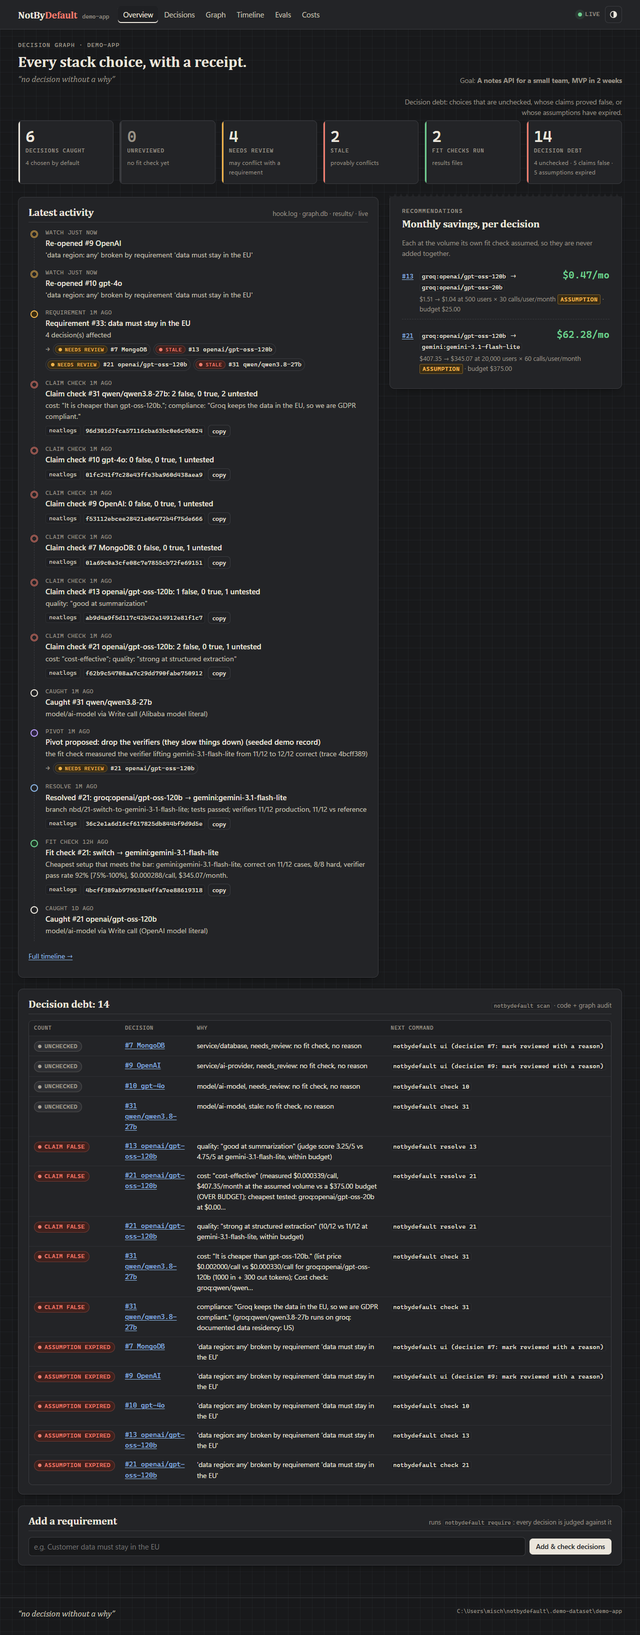
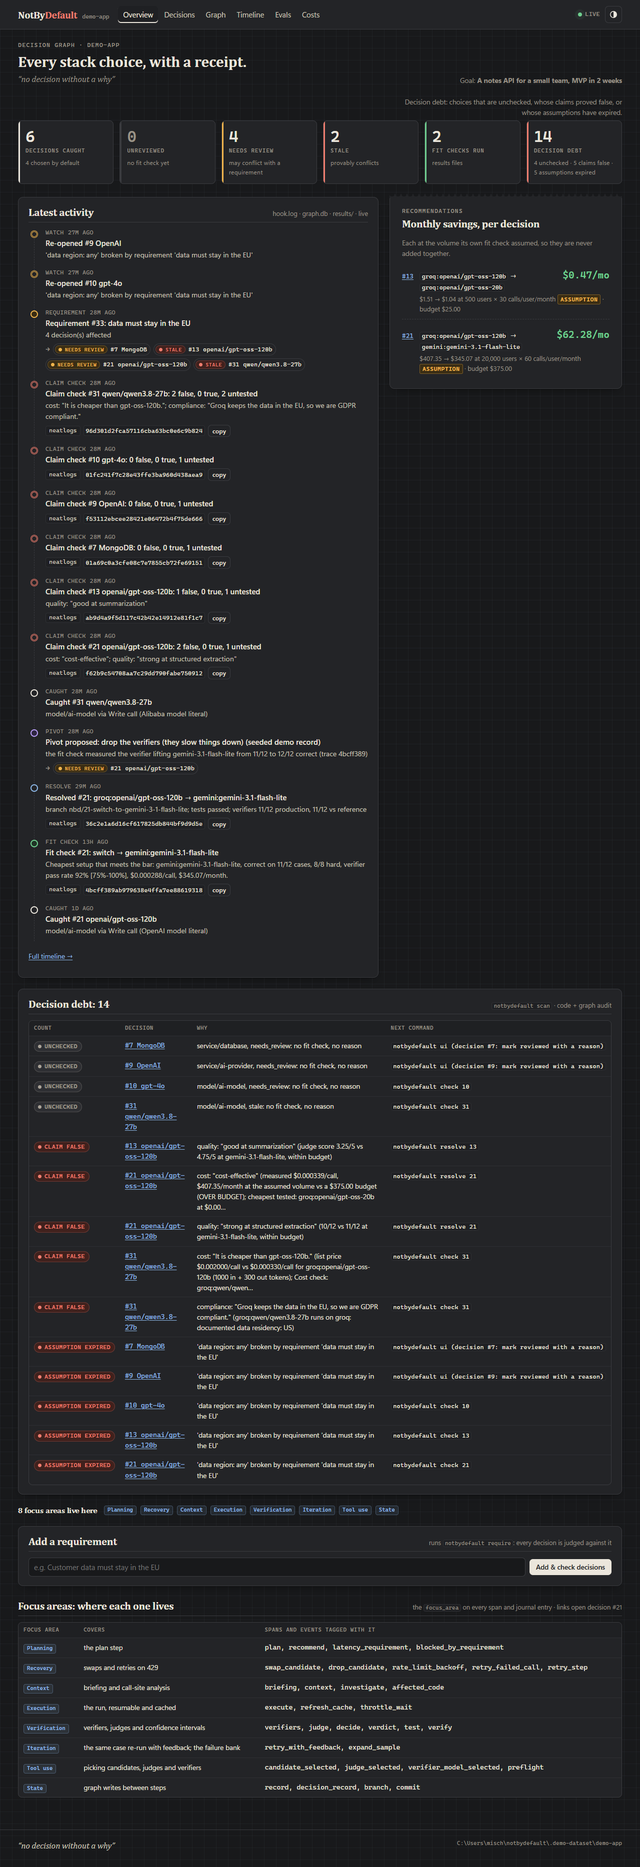
focus areas: approved retags, badges on the receipt, fit check and resolve PR
Retags (each approved one by one):
- candidate_selected, judge_selected, verifier_model_selected: planning -> tool_use
- retry_with_feedback: recovery -> iteration, and it is no longer in RECOVERY_EVENTS,
  so the report's "Agent journal: N ..." count is recoveries only
- refresh_cache (hook): planning -> execution
- expand_sample (failure-bank inputs re-run first): context -> iteration
- each candidate's first model call (evaluate.py): tool_use -> execution
preflight and the preflight call role stay tool_use.

Display only, from data already saved:
- fit-check evidence: a step strip, one focus-area badge per step
- receipt: an "Agent journal" section, one line per entry ("rate_limit_backoff -> Recovery")
- overview: an "8 focus areas live here" chip row, each chip linking to the receipt section
  where that area shows most, and a mapping table (area, what it covers, its spans)
- resolve PR: a "Focus areas touched by this change" line under the title, built from the
  step spans (a retried step adds its retry_step recovery)
Journals saved before this change keep their old tags. tracing.RETAGGED maps them to today's
tag for display, and the badge's tooltip shows the recorded tag.

Tests: the two that pinned retry_with_feedback as recovery now expect iteration. New tests check
that every span in the mapping table is emitted with its area, that saved journals show today's
area, that every chip links to an existing section and that the PR has the focus line.
[…]

diff --git a/notbydefault/ui/templates/_decision_body.html b/notbydefault/ui/templates/_decision_body.html
@@ -1,6 +1,6 @@
 {% include "_claims.html" %}
 {% from "_macros.html" import pill, trace, file %}
-<div class="section-title"><h2>Call site &amp; affected code</h2><span class="src">Entire Graph · {{ v.affected_source or "touched files" }}{% if data.affected_at %} · {{ data.affected_at|when }}{% endif %}</span></div>
+<div class="section-title" id="affected"><h2>Call site &amp; affected code</h2><span class="src">Entire Graph · {{ v.affected_source or "touched files" }}{% if data.affected_at %} · {{ data.affected_at|when }}{% endif %}</span></div>
 <div class="grid-2">
   <div class="table-wrap">
     {% if v.affected %}
@@ -26,11 +26,14 @@
   </div>
 </div>
 
-<div class="section-title"><h2>Fit-check evidence</h2>
+<div class="section-title" id="fit-evidence"><h2>Fit-check evidence</h2>
   <span class="src">{% if v.fit %}{{ file(v.fit.results) }} · run {{ v.fit.run_at|when }}{% else %}no fit check{% endif %}</span></div>
 {% if v.fit %}
 {% set f = v.fit %}
 <p class="small fit-line">{{ FIT_LINE }}</p>
+{% if f.steps %}<ol class="step-strip" id="fit-steps" aria-label="Fit-check steps and their focus areas">
+  {% for s in f.steps %}<li><span class="mono">{{ s.name }}{% if s.n > 1 %} ×{{ s.n }}{% endif %}</span> <span class="focus"{% if s.recorded != s.area %} title="recorded as {{ s.recorded }} before the retag"{% endif %}>{{ s.label }}</span></li>{% endfor %}
+</ol>{% endif %}
 <div class="table-wrap"><table class="fit">
   <thead><tr>{% for h in f.table.headers %}<th{% if not loop.first %} class="num"{% endif %}>{{ h }}</th>{% endfor %}</tr></thead>
   <tbody>
@@ -74,6 +77,13 @@
     {% if not any_fail.v %}<p class="muted small">No per-case failures recorded{{ " (no reference answers)" if not f.table.refs }}.</p>{% endif %}
   </div>
 </div>
+{% if f.journal %}
+<div class="section-title" id="agent-journal"><h2>Agent journal</h2><span class="src">{{ file(f.results) }} · {{ f.journal|length }} entries, each with its focus area</span></div>
+<ul class="journal">
+  {% for e in f.journal %}<li{% if e.anchor %} id="journal-{{ e.area }}"{% endif %}><code>{{ e.name }}</code> → <span class="focus"{% if e.recorded != e.area %} title="recorded as {{ e.recorded }} before the retag"{% endif %}>{{ e.label }}</span>{% if e.reason %} <span class="why">{{ e.reason|truncate(120, True, "…") }}</span>{% endif %}</li>
+  {% endfor %}
+</ul>
+{% endif %}
 {% else %}
 <div class="empty"><b>Not fit-tested</b>{% if data.kind == "model" %}Run <code>notbydefault check {{ d.id }}</code> to test it against the project's constraints.{% else %}Fit checks test model decisions; this one is a {{ data.kind }} decision.{% endif %}</div>
 {% endif %}

diff --git a/notbydefault/ui/static/app.css b/notbydefault/ui/static/app.css
@@ -343,3 +343,15 @@ li.broken { background: color-mix(in srgb, var(--bad-bg) 50%, transparent); padd
 .debt code.copy { white-space: nowrap; }
 .feed li.k-claims .dot, .k-claims.lk i, .tl-item.k-claims::before { border-color: var(--bad); background: var(--sheet); border-style: double; border-width: 3px; }
 .feed li.k-watch .dot, .k-watch.lk i, .tl-item.k-watch::before { border-color: var(--warn); background: var(--sheet); border-style: double; border-width: 3px; }
+
+/* focus areas: one neutral badge style, the label carries the meaning */
+.focus { display: inline-block; font: 600 .68rem/1 var(--mono); padding: 3px 6px; border-radius: 4px; color: var(--accent); background: color-mix(in srgb, var(--accent) 9%, transparent); border: 1px solid color-mix(in srgb, var(--accent) 30%, transparent); white-space: nowrap; text-decoration: none; }
+a.focus:hover, a.focus:focus-visible { background: color-mix(in srgb, var(--accent) 18%, transparent); }
+.focus-row { display: flex; flex-wrap: wrap; gap: 8px; align-items: center; margin: 22px 0 6px; }
+.focus-row h2 { font-size: 1rem; margin: 0 6px 0 0; }
+.step-strip { list-style: none; padding: 0; margin: 8px 0 14px; display: flex; flex-wrap: wrap; gap: 6px; }
+.step-strip li { display: inline-flex; align-items: center; gap: 6px; padding: 4px 6px 4px 8px; border: 1px solid var(--rule); border-radius: 6px; background: var(--sheet); font-size: .8rem; }
+.journal { list-style: none; padding: 0; margin: 0; columns: 2 24rem; column-gap: 28px; font-size: .82rem; }
+.journal li { break-inside: avoid; padding: 4px 0; border-bottom: 1px solid var(--rule-2); overflow-wrap: anywhere; }
+.journal .why { color: var(--muted); }
+[id] { scroll-margin-top: 16px; }

diff --git a/notbydefault/ui/templates/overview.html b/notbydefault/ui/templates/overview.html
@@ -10,6 +10,11 @@
   {% if ov.goal %}<p class="small">Goal: <b>{{ ov.goal }}</b></p>{% endif %}
 </div>
 {% include "_overview_live.html" %}
+<section class="focus-row" aria-labelledby="h-focus">
+  <h2 id="h-focus">{{ ov.focus|length }} focus areas live here</h2>
+  {% for a in ov.focus %}{% if a.href %}<a class="focus" href="{{ a.href }}" title="{{ a.covers }}">{{ a.label }}</a>{% else %}<span class="focus" title="{{ a.covers }}">{{ a.label }}</span>{% endif %}
+  {% endfor %}
+</section>
 {% if not read_only %}
 <section class="sheet require" aria-labelledby="h-require">
   <div class="section-title" style="margin-top:0"><h2 id="h-require">Add a requirement</h2><span class="src">runs <code>notbydefault require</code>: every decision is judged against it</span></div>
@@ -24,4 +29,14 @@
   <div id="require-result" aria-live="polite"></div>
 </section>
 {% endif %}
+<section aria-labelledby="h-focus-map">
+  <div class="section-title"><h2 id="h-focus-map">Focus areas: where each one lives</h2><span class="src">the <code>focus_area</code> on every span and journal entry{% if ov.focus_decision %} · links open decision #{{ ov.focus_decision }}{% endif %}</span></div>
+  <div class="table-wrap"><table>
+    <thead><tr><th>focus area</th><th>covers</th><th>spans and events tagged with it</th></tr></thead>
+    <tbody>{% for a in ov.focus %}
+      <tr><td>{% if a.href %}<a class="focus" href="{{ a.href }}">{{ a.label }}</a>{% else %}<span class="focus">{{ a.label }}</span>{% endif %}</td>
+        <td class="small">{{ a.covers }}</td><td class="mono small">{{ a.spans|join(", ") }}</td></tr>
+    {% endfor %}</tbody>
+  </table></div>
+</section>
 {% endblock %}

diff --git a/notbydefault/ui/templates/_decision_tail.html b/notbydefault/ui/templates/_decision_tail.html
@@ -23,7 +23,7 @@
   </section>
 </div>
 
-<div class="section-title"><h2>Failure bank</h2><span class="src">{% if v.failures_file %}{{ file(v.failures_file) }} · {{ v.failures_total }} output(s), run first next time{% else %}empty{% endif %}</span></div>
+<div class="section-title" id="failure-bank"><h2>Failure bank</h2><span class="src">{% if v.failures_file %}{{ file(v.failures_file) }} · {{ v.failures_total }} output(s), run first next time{% else %}empty{% endif %}</span></div>
 {% if v.failures %}
 <div class="table-wrap"><table>
   <thead><tr><th>model</th><th>failed checks</th><th>why</th><th>when</th></tr></thead>
@@ -57,6 +57,6 @@
 {% endif %}
 
 {% if v.history %}
-<div class="section-title"><h2>Status history</h2><span class="src">graph: decision history</span></div>
+<div class="section-title" id="history"><h2>Status history</h2><span class="src">graph: decision history</span></div>
 <ol class="history">{% for h in v.history %}<li><span class="mono small">{{ h.at|when }}</span> {{ pill(h.status) }} <span class="small">{{ h.event }}</span></li>{% endfor %}</ol>
 {% endif %}

diff --git a/notbydefault/ui/data.py b/notbydefault/ui/data.py
@@ -284,6 +284,51 @@ def record_links(project: Path, rel: str) -> dict:
     return _cached(("record", str(project), rel, mtime), 60.0, compute)
 
 
+# the 8 focus areas: (area, what it covers, spans/events tagged with it, decision-page section
+# where it shows most). tests/test_ui.py checks each span name is emitted with its area.
+FOCUS_MAP = [
+    ("planning", "the plan step", ("plan", "recommend", "latency_requirement",
+                                   "blocked_by_requirement"), "fit-steps"),
+    ("recovery", "swaps and retries on 429", ("swap_candidate", "drop_candidate",
+                                              "rate_limit_backoff", "retry_failed_call",
+                                              "retry_step"), "journal-recovery"),
+    ("context", "briefing and call-site analysis", ("briefing", "context", "investigate",
+                                                    "affected_code"), "affected"),
+    ("execution", "the run, resumable and cached", ("execute", "refresh_cache", "throttle_wait"),
+     "journal-execution"),
+    ("verification", "verifiers, judges and confidence intervals",
+     ("verifiers", "judge", "decide", "verdict", "test", "verify"), "fit-evidence"),
+    ("iteration", "the same case re-run with feedback; the failure bank",
+     ("retry_with_feedback", "expand_sample"), "failure-bank"),
+    ("tool_use", "picking candidates, judges and verifiers",
+     ("candidate_selected", "judge_selected", "verifier_model_selected", "preflight"),
+     "journal-tool_use"),
+    ("state", "graph writes between steps", ("record", "decision_record", "branch", "commit"),
+     "history"),
+]
+
+
+def journal_view(journal: list[dict]) -> tuple[list[dict], list[dict]]:
+    """(steps, entries) of a saved agent journal, each with today's focus area and label."""
+    from notbydefault.fit.tracing import FOCUS_LABELS, current_focus
+    entries, seen = [], set()
+    for e in journal:
+        area = current_focus(e)
+        entries.append({"kind": e.get("kind"), "name": e.get("name"), "area": area,
+                        "label": FOCUS_LABELS.get(area, area), "reason": e.get("reason") or "",
+                        "recorded": e.get("focus_area"), "anchor": area not in seen})
+        seen.add(area)
+    steps: list[dict] = []
+    for e in entries:
+        if e["kind"] != "step" or e["name"] == "notbydefault.check":
+            continue
+        if steps and steps[-1]["name"] == e["name"]:
+            steps[-1]["n"] += 1
+        else:
+            steps.append({**e, "n": 1})
+    return steps, entries
+
+
 def decision_view(project: Path, snap: Snapshot, did: int) -> dict | None:
     """Everything the receipt page shows for one decision, each claim with its source."""
     from notbydefault.fit import failures as failures_mod
@@ -316,6 +361,7 @@ def decision_view(project: Path, snap: Snapshot, did: int) -> dict | None:
                    if (project / ".notbydefault" / "verifiers" / f"{did}.py").is_file() else None),
                "checks": (results.get("verifiers") or {}).get("checks") or [],
                "stopped": results.get("stopped")}
+        fit["steps"], fit["journal"] = journal_view(results.get("journal") or [])
     record = existing_path(project, d)
     record_rel = rel_to(project, str(record)) if record else None
     sections = {"Caveats": [], "Assumptions and evidence": []}
@@ -563,7 +609,23 @@ def overview(project: Path, snap: Snapshot) -> dict:
         debt = compute(Path(project), _GraphView(snap))
     except Exception:      # noqa: BLE001  (a malformed catalog must not break the page)
         debt = None
+    # chips link into the latest fit-checked decision's page (the results file that page shows);
+    # a section that page lacks falls back to its agent journal
+    from notbydefault.fit.tracing import FOCUS_LABELS, current_focus
+    journaled = [c for c in checks if c.data.get("journal") and c.decision_id in snap.nodes
+                 and c.path == rel_to(project, snap.nodes[c.decision_id]["data"].get("results"))]
+    target = max(journaled, key=lambda c: c.run_at) if journaled else None
+    focus_did = target.decision_id if target else None
+    present = {f"journal-{current_focus(e)}" for e in target.data["journal"]} if target else set()
+    if target and snap.nodes[focus_did]["data"].get("history"):
+        present.add("history")
+    focus = [{"area": a, "label": FOCUS_LABELS[a], "covers": covers, "spans": spans,
+              "href": None if not focus_did else f"/decisions/{focus_did}#"
+              + (anchor if anchor in present or anchor in ("fit-steps", "affected", "fit-evidence",
+                                                           "failure-bank") else "agent-journal")}
+             for a, covers, spans, anchor in FOCUS_MAP]
     return {"decisions": len(decisions), "count": count, "checks": len(checks), "debt": debt,
+            "focus": focus, "focus_decision": focus_did,
             "by_default": sum(by_default(d) for d in decisions), "savings": savings,
             "goal": next((g["label"] for g in snap.of_type("goal")), None)}
 

diff --git a/tests/test_ui.py b/tests/test_ui.py
@@ -320,3 +320,52 @@ def test_resolution_receipt_shows_generated_test_counts(repo):
     assert "tests/test_nbd_1_generated.py" in html
     assert "8 case(s), 3 from the failure bank" in html
     assert "before the edit 0/8 passed → after 8/8 passed" in html
+
+# --- focus areas ----------------------------------------------------------------------
+
+def test_every_focus_map_span_is_emitted_with_its_area():
+    import re
+    from pathlib import Path
+    from notbydefault.fit.tracing import FOCUS_AREAS
+    src_dir = Path(data.__file__).resolve().parents[1]
+    src = "\n".join(p.read_text(encoding="utf-8") for p in src_dir.rglob("*.py"))
+    llm_src = (src_dir / "llm.py").read_text(encoding="utf-8")   # its _emit tags every event recovery
+    assert sorted(a for a, *_ in data.FOCUS_MAP) == sorted(FOCUS_AREAS)
+    for area, _covers, spans, _anchor in data.FOCUS_MAP:
+        for name in spans:
+            assert (re.search(rf'"{name}"[^()]{{0,160}}?"{area}"', src)
+                    or re.search(rf'"{name}": \("{area}"', src)
+                    or (area == "recovery" and f'_emit("{name}"' in llm_src)), (name, area)
+
+
+def test_saved_journals_show_todays_focus_area():
+    steps, entries = data.journal_view([
+        {"kind": "step", "name": "notbydefault.check", "focus_area": "execution"},
+        {"kind": "step", "name": "plan", "focus_area": "planning"},
+        {"kind": "event", "name": "candidate_selected", "focus_area": "planning", "reason": "r"},
+        {"kind": "step", "name": "judge", "focus_area": "verification"},
+        {"kind": "step", "name": "judge", "focus_area": "verification"},
+        {"kind": "event", "name": "retry_with_feedback", "focus_area": "recovery"},
+        {"kind": "event", "name": "rate_limit_backoff", "focus_area": "recovery"}])
+    assert [(s["name"], s["label"], s["n"]) for s in steps] == [("plan", "Planning", 1),
+                                                                 ("judge", "Verification", 2)]
+    by = {e["name"]: e for e in entries}
+    assert (by["retry_with_feedback"]["label"], by["retry_with_feedback"]["recorded"]) == \
+        ("Iteration", "recovery")
+    assert by["candidate_selected"]["label"] == "Tool use"
+    assert by["rate_limit_backoff"]["label"] == "Recovery" and by["rate_limit_backoff"]["anchor"]
+
+
+def test_overview_chips_link_to_sections_of_the_receipt(base_repo):
+    import re
+    p, did, _ = base_repo
+    c = client_for(p)
+    html = c.get("/").text
+    assert "8 focus areas live here" in html and "Focus areas: where each one lives" in html
+    anchors = set(re.findall(rf'class="focus" href="/decisions/{did}#([\w-]+)"', html))
+    assert anchors and "fit-steps" in anchors
+    page = c.get(f"/decisions/{did}").text
+    for a in anchors:
+        assert f'id="{a}"' in page, a
+    assert 'class="step-strip"' in page and "Agent journal" in page
+    assert re.search(r"<code>plan</code> → <span class=\"focus\"[^>]*>Planning</span>", page)

diff --git a/notbydefault/fit/run.py b/notbydefault/fit/run.py
@@ -25,8 +25,9 @@ DEFAULT_CALLS_PER_USER = 30
 EXPECTED_OUT_TOKENS = 350     # cost estimate only; the spend guard uses worst cases
 EXPECTED_EXTRA_ATTEMPTS = 0.5  # cost estimate only: average retries per verified call
 SETUPS = (ALONE, VERIFIED)
-RECOVERY_EVENTS = {"rate_limit_backoff", "retry_failed_call", "retry_with_feedback", "call_failed",
-                   "judge_failed", "swap_candidate", "drop_candidate", "daily_limit_stop",
+# journal events counted as recoveries in the report's "Agent journal: ..." line. Retries with
+# verifier feedback are iteration, not recovery, so retry_with_feedback is not counted here.
+RECOVERY_EVENTS = {"rate_limit_backoff", "retry_failed_call", "call_failed", "judge_failed", "swap_candidate", "drop_candidate", "daily_limit_stop",
                    "budget_stop", "expand_failed", "setup_failed"}
 PROBE = [{"role": "user", "content": "Reply with the single word: ok"}]
 
@@ -297,8 +298,8 @@ def check_model_decision(project: Path, decision_id: int, opts: CheckOptions, cl
                                  role="judge_from_candidate")
                 for model, why in cfg["why"].items():
                     tracer.event("judge_selected" if model in cfg["judges"] else "candidate_selected",
-                                 "planning", why, model=model)
-                tracer.event("verifier_model_selected", "planning",
+                                 "tool_use", why, model=model)
+                tracer.event("verifier_model_selected", "tool_use",
                              "cheapest candidate: verified setups pay for every rubric check",
                              model=cfg["verifier_model"])
             try:
@@ -342,7 +343,7 @@ def check_model_decision(project: Path, decision_id: int, opts: CheckOptions, cl
                                      f"reusing {len(samples)} saved inputs so results stay "
                                      "comparable across runs", count=len(samples))
                     if bank:
-                        tracer.event("expand_sample", "context",
+                        tracer.event("expand_sample", "iteration",
                                      f"{len(bank)} inputs failed a verifier in earlier runs; adding "
                                      "them first so known failures are always re-tested",
                                      added=len(bank))

diff --git a/scripts/ui_screenshots.py b/scripts/ui_screenshots.py
@@ -23,7 +23,9 @@ sys.path.insert(0, str(REPO))
 
 PAGES = [("overview", "/"), ("decisions", "/decisions"), ("decision", "/decisions/{did}"),
          ("graph", "/graph"), ("graph-focus", "/graph?focus={did}"), ("timeline", "/timeline"), ("evals", "/evals"),
-         ("costs", "/costs")]
+         ("costs", "/costs"), ("fit-check", "/decisions/{did}")]
+# pages shot as a clip: from the top of the first selector to the bottom of the last one
+CLIPS = {"fit-check": ("#fit-evidence", ".journal")}
 
 
 def throwaway_demo(dest: Path) -> Path:
@@ -92,7 +94,14 @@ def main() -> int:
                         page.wait_for_timeout(1200)       # dagre layout
                     over = page.evaluate("document.documentElement.scrollWidth - innerWidth")
                     file = out / f"{name}-{scheme}.png"
-                    page.screenshot(path=str(file), full_page=not name.startswith("graph"))
+                    if name in CLIPS:
+                        first, last = (page.locator(s).first.bounding_box() for s in CLIPS[name])
+                        top = first["y"] - 12
+                        page.screenshot(path=str(file), full_page=True, clip={
+                            "x": 0, "y": top, "width": args.width,
+                            "height": last["y"] + last["height"] + 16 - top})
+                    else:
+                        page.screenshot(path=str(file), full_page=not name.startswith("graph"))
                     print(f"{file.relative_to(REPO) if file.is_relative_to(REPO) else file}  horizontal overflow: {over}px")
                 if errors:
                     print(f"{scheme}: browser errors:\n  " + "\n  ".join(errors))

diff --git a/notbydefault/fit/tracing.py b/notbydefault/fit/tracing.py
@@ -19,6 +19,16 @@ from notbydefault.env import load_env
 MAX_ATTR_CHARS = 4000
 FOCUS_AREAS = ("planning", "tool_use", "state", "context", "execution", "recovery",
                "verification", "iteration")
+FOCUS_LABELS = {"planning": "Planning", "tool_use": "Tool use", "state": "State",
+                "context": "Context", "execution": "Execution", "recovery": "Recovery",
+                "verification": "Verification", "iteration": "Iteration"}
+# journals saved before the 2026-10-12 retag carry the old tag: (name, old) -> today's tag
+RETAGGED = {("candidate_selected", "planning"): "tool_use",
+            ("judge_selected", "planning"): "tool_use",
+            ("verifier_model_selected", "planning"): "tool_use",
+            ("retry_with_feedback", "recovery"): "iteration",
+            ("expand_sample", "context"): "iteration",
+            ("refresh_cache", "planning"): "execution"}
 # neatlogs span kinds per call role (its decorator has no "LLM" kind)
 SPAN_KIND = {"candidate": "TOOL", "analyst": "TOOL", "preflight": "TOOL",
              "judge": "EVALUATOR", "verifier": "GUARDRAIL"}
@@ -31,6 +41,11 @@ def _check_focus(focus_area: str) -> str:
     if focus_area not in FOCUS_AREAS:
         raise ValueError(f"focus_area must be one of {FOCUS_AREAS}, not {focus_area!r}")
     return focus_area
+
+
+def current_focus(entry: dict) -> str:
+    """The focus_area the code gives this journal entry today (a saved one may predate a retag)."""
+    return RETAGGED.get((entry.get("name"), entry.get("focus_area")), entry.get("focus_area"))
 
 
 class SpanAttrs:

diff --git a/notbydefault/resolve.py b/notbydefault/resolve.py
@@ -1101,6 +1101,22 @@ def hard_text(s: dict) -> str:
     return f"{s['hard_correct']}/{s['hard_total']}" if s and s.get("hard_total") else "-"
 
 
+def focus_line(steps: list[dict]) -> str:
+    """Each focus area this run's step spans carry, with the spans (a retried step adds its
+    retry_step recovery event)."""
+    from notbydefault.fit.tracing import FOCUS_AREAS, FOCUS_LABELS
+    by: dict[str, list[str]] = {}
+    for s in [*steps, {"step": "record", "focus_area": STEPS["record"][0], "attempts": 1}]:
+        names = by.setdefault(s["focus_area"], [])
+        if s["step"] not in names:
+            names.append(s["step"])
+        if s.get("attempts") == 2:
+            by.setdefault("recovery", []).append(f"retry_step ({s['step']})")
+    return "**Focus areas touched by this change:** " + "; ".join(
+        f"{FOCUS_LABELS[a]} ({', '.join(f'`{n}`' for n in by[a])})"
+        for a in FOCUS_AREAS if a in by) + "."
+
+
 def pr_description(r: Resolver) -> str:
     res, v = r.results, r.results["verdict"]
     stats = res["stats"]
@@ -1119,6 +1135,7 @@ def pr_description(r: Resolver) -> str:
         return ", ".join(pcfg.get(p, {}).get("data_residency") or []) or "none guaranteed"
     budget = res["assumptions"].get("budget")
     lines = [f"# Resolve #{r.decision_id}: switch {r.old_target} -> {r.target}", "",
+             focus_line(r.state["steps"]), "",
              f"Decision #{r.decision_id} (`{r.decision['label']}`), task: "
              f"{res['callsite'].get('task') or '-'}", "", "## Why", "", v["summary"], "", WHY_LINE,
              "",

diff --git a/tests/test_resolve.py b/tests/test_resolve.py
@@ -144,6 +144,11 @@ def test_apply_edits_tests_verifies_records_and_leaves_it_uncommitted(repo):
     for part in ("## Evidence", "| latency per call (s) |", "| verifiers on the new code |",
                  "## Traces", "## Checkpoints", "FAKE_GEMINI_KEY", "| verify | verification | 1 | ok |"):
         assert part in pr, part
+    focus = pr.splitlines()[2]
+    assert focus.startswith("**Focus areas touched by this change:** Planning (`plan`, `recommend`); "
+                            "State (`branch`"), focus
+    assert "Context (`investigate`)" in focus and "Execution (`apply`)" in focus
+    assert "Verification (`fit_check`, `generate_tests`, `test`, `verify`)" in focus
     generated = f"tests/test_nbd_{did}_generated.py"
     assert res["generated_tests"]["path"] == generated, out
     assert res["generated_tests"]["before"] == "0/8 passed"     # the old code calls the old model
@@ -491,3 +496,11 @@ def _with_client(client):
         real(self, *a, **kw)
         self.client, self.tracer = client, Tracer()
     return init
+
+def test_focus_line_lists_each_area_once_with_its_spans_and_retries():
+    line = resolve_mod.focus_line([
+        {"step": "plan", "focus_area": "planning", "attempts": 1},
+        {"step": "test", "focus_area": "verification", "attempts": 2},
+        {"step": "record", "focus_area": "state", "attempts": 1}])
+    assert line == ("**Focus areas touched by this change:** Planning (`plan`); State (`record`); "
+                    "Recovery (`retry_step (test)`); Verification (`test`).")

diff --git a/notbydefault/fit/evaluate.py b/notbydefault/fit/evaluate.py
@@ -179,7 +179,7 @@ def run_setups(caller: Caller, site: CallSite, samples: list[dict], models: list
                 r = caller.chat(model, messages, span="notbydefault.model_call", role="candidate",
                                 temperature=temperature, max_tokens=max_tokens,
                                 attrs={"notbydefault.sample": i, "notbydefault.attempt": attempt},
-                                focus_area="tool_use" if attempt == 0 else "iteration")
+                                focus_area="execution" if attempt == 0 else "iteration")
                 v = verify(caller, verifier_model, verifiers, text, r.text,
                            attrs={"notbydefault.sample": i, "notbydefault.candidate": model,
                                   "notbydefault.attempt": attempt}, reference=reference)
@@ -216,7 +216,7 @@ def run_setups(caller: Caller, site: CallSite, samples: list[dict], models: list
                         model=model, sample=i)
                     break
                 caller.tracer.event(
-                    "retry_with_feedback", "recovery",
+                    "retry_with_feedback", "iteration",
                     f"{model} failed {', '.join(v.failed)} on input {i} ({v.retry_reason}); "
                     f"retrying with that reason (retry {attempt + 1}/{max_retries})",
                     model=model, sample=i, attempt=attempt + 1)
